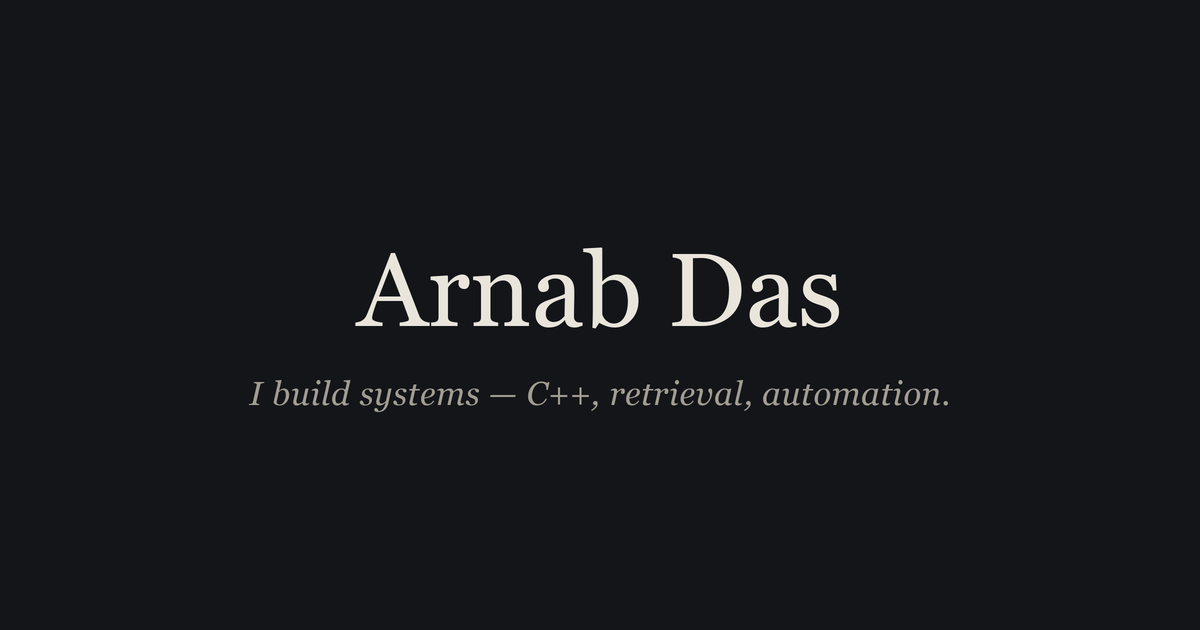
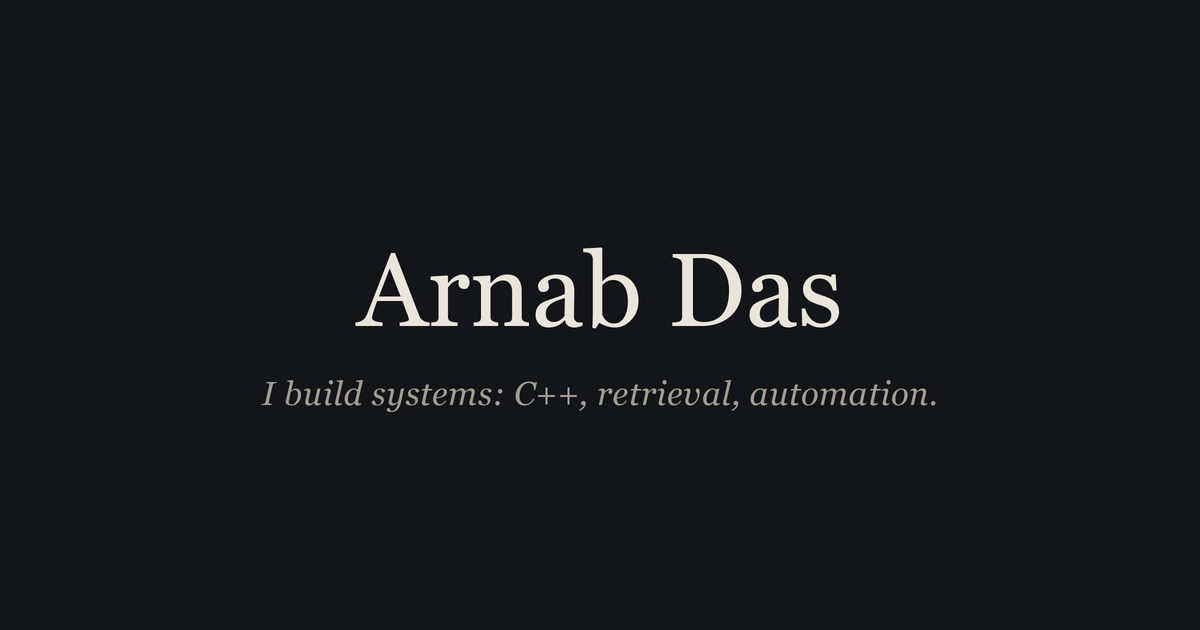
Drop em dash from og:image, dedupe nav handler, ignore .DS_Store
- og-image.png regenerated: the line now reads "I build systems: C++,
  retrieval, automation." so it matches og:image:alt exactly
- keep a single in-page navigation handler; the two were near-identical
  and both fired on every click
- add .gitignore for .DS_Store (was never tracked)

Changed region(s): [[0.2158, 0.6032, 0.8017, 0.6635]]

diff --git a/index.html b/index.html
@@ -479,17 +479,6 @@
     }));
 
     // ---- in-page navigation ----
-    document.querySelectorAll('a[href^="#"]').forEach(a => {
-      a.addEventListener('click', (e) => {
-        e.preventDefault();
-        const id = a.getAttribute('href').slice(1);
-        if (!id) return;                        // placeholder links stay inert
-        const target = document.getElementById(id);
-        if (target) target.scrollIntoView({ behavior: 'smooth', block: 'start' });
-      });
-    });
-
-    // ---- in-page navigation ----
     // Bare "#id" hrefs get hijacked when this page is previewed inside a sandboxed
     // iframe, so scrolling is handled explicitly rather than left to the browser.
     document.querySelectorAll('a[href^="#"]').forEach(a => {
